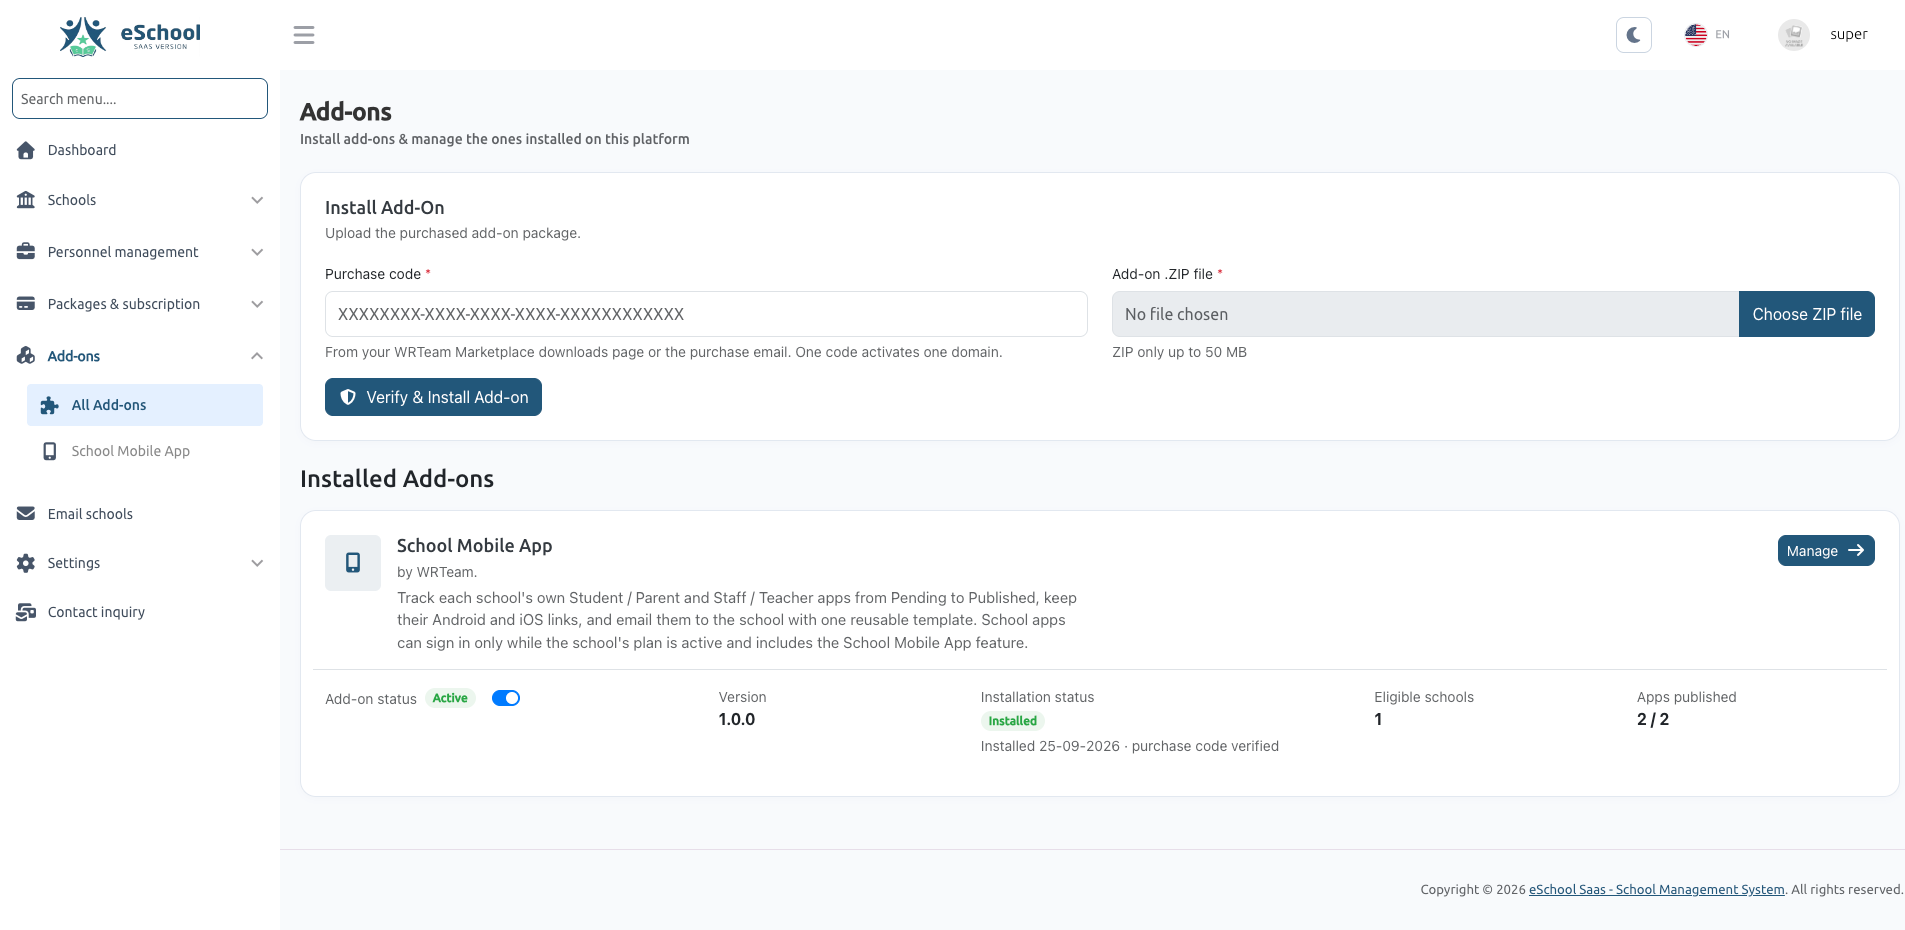
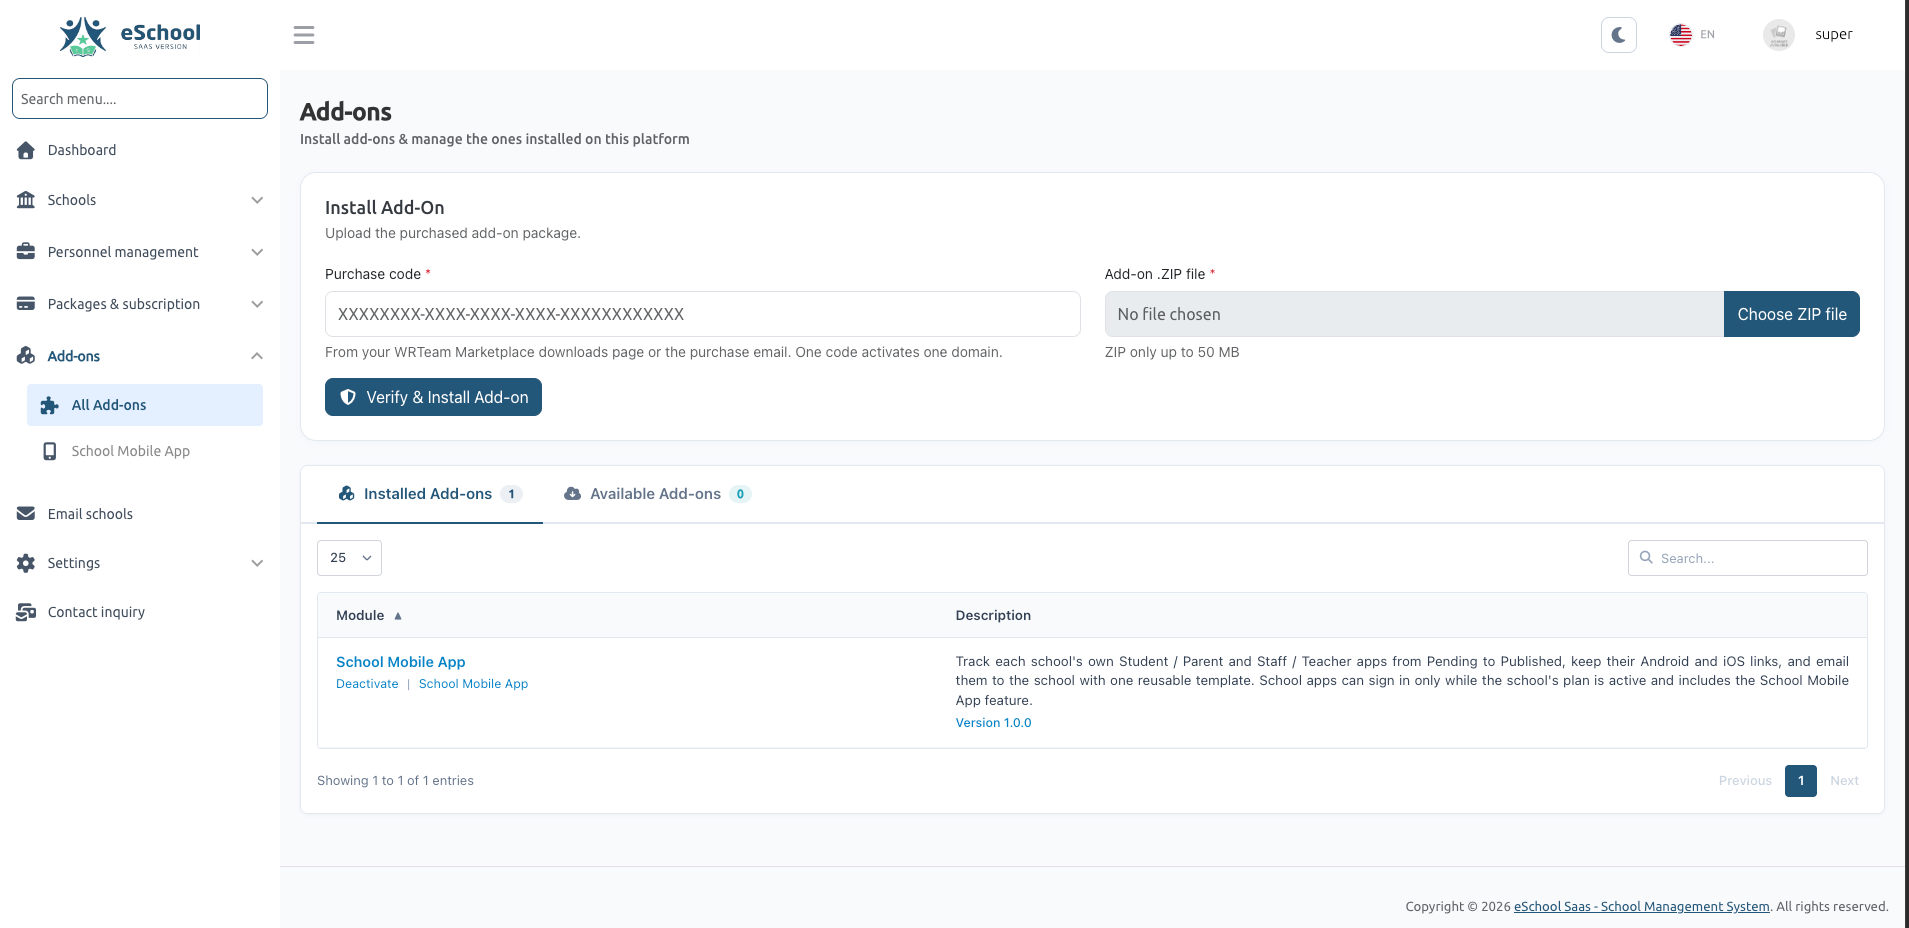
docs: update changelog, server requirements, and addon manager screenshot for version 1.12.0

diff --git a/changelog/index.md b/changelog/index.md
@@ -5,11 +5,12 @@ title: Changelog
 
 # Changelog
 
-## Version 1.12.0 (01 Oct 2026)
+## Version 1.12.0 (12 Oct 2026)
 
 - **[ADDED]** External storage S3/R2. [Click Here](../superadmin/settings/system-settings/external-storage)
 - **[ADDED]** Dark mode.
 - **[ADDED]** Add-on manager. [Click Here](../superadmin/addons/addon-manager)
+- **[ADDED]** Facebook App Events  [Click Here](../installation/application-installation/facebook-app-events/)
 - **[UPDATED]** Laravel version update v10 to v13.
 - **[IMPROVED]** Retry school create option if failed.
 

diff --git a/installation/admin-panel-installation/vps-server-setup.md b/installation/admin-panel-installation/vps-server-setup.md
@@ -16,7 +16,7 @@ Before installing e-School SaaS, you need to properly configure your VPS server.
 | **Storage** | 80GB SSD | Expandable |
 | **CPU** | 2 vCores | 4 vCores |
 | **Bandwidth** | 1TB monthly | - |
-| **PHP Version** | 8.3.0+ | 8.3+ |
+| **PHP Version** | 8.4.0+ | 8.4+ |
 | **Laravel Version** | 13.0 | Latest |
 | **PHP Memory Limit** | 256MB | 512MB |
 
